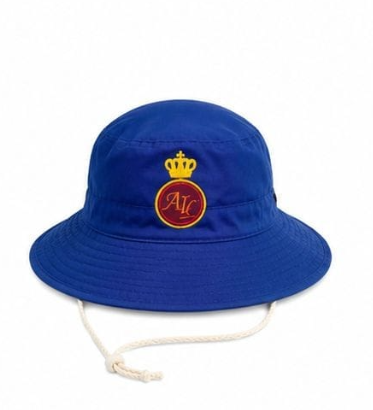
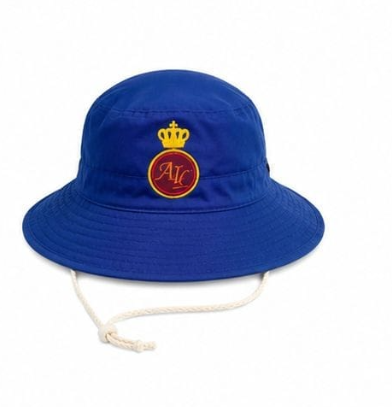
Update sun hat and gray skirt photos in the uniform catalog.
Replace sun hat images and add Grade 7-9 gray skirt photo with uncropped product images in both grade lists.

Changed region(s): [[0.059, 0.1474, 0.9142, 0.9435], [0.5308, 0.5897, 0.5898, 0.6192]]

diff --git a/src/lib/uniform-catalog.ts b/src/lib/uniform-catalog.ts
@@ -22,7 +22,7 @@ export type UniformPriceList = {
 }
 
 /** Bump when any public uniform item image changes so browsers fetch fresh files. */
-export const UNIFORM_IMAGES_VERSION = "28"
+export const UNIFORM_IMAGES_VERSION = "30"
 
 export function uniformItemSrc(path: string): string {
   const base = path.split("?")[0] ?? path
@@ -168,6 +168,13 @@ const GRAY_SKIRT_IMAGES: UniformItemImage[] = [
   },
 ]
 
+const GRAY_SKIRT_G79_IMAGES: UniformItemImage[] = [
+  {
+    src: uniformItemSrc("/images/uniform/items/gray-skirt-g79.png"),
+    alt: "Grey school skirt with maroon trim",
+  },
+]
+
 const PLEATED_SKIRT_IMAGES: UniformItemImage[] = [
   {
     src: uniformItemSrc("/images/uniform/items/pleated-skirt.png"),
@@ -217,7 +224,7 @@ export const UNIFORM_PRICE_LISTS: UniformPriceList[] = [
       { id: "gray-red-socks", name: "Gray and Red Socks", price: "R100.00", images: GRAY_RED_SOCKS_IMAGES },
       { id: "sun-hat", name: "Sun hat", price: "R200.00", images: SUN_HAT_IMAGES, showImages: true },
       { id: "winter-woollen-hat", name: "Winter woollen hat", price: "R200.00", images: WINTER_WOOLLEN_HAT_IMAGES, showImages: true },
-      { id: "gray-skirt", name: "Gray Skirt", price: "R200.00", images: GRAY_SKIRT_IMAGES },
+      { id: "gray-skirt", name: "Gray Skirt", price: "R200.00", images: GRAY_SKIRT_IMAGES, showImages: true },
       { id: "sports-white-shorts", name: "Sports White Shorts", price: "R200.00", images: SPORTS_WHITE_SHORTS_IMAGES, showImages: true },
     ],
   },
@@ -239,7 +246,7 @@ export const UNIFORM_PRICE_LISTS: UniformPriceList[] = [
       { id: "g79-maroon-socks", name: "Maroon Socks", price: "R100.00", images: MAROON_SOCKS_IMAGES, showImages: true },
       { id: "g79-sun-hat", name: "Sun hat", price: "R200.00", images: SUN_HAT_G79_IMAGES, showImages: true },
       { id: "g79-winter-woollen-hat", name: "Winter woollen hat", price: "R200.00", images: WINTER_WOOLLEN_HAT_IMAGES, showImages: true },
-      { id: "g79-gray-skirt", name: "Gray Skirt", price: "R200.00", images: GRAY_SKIRT_IMAGES },
+      { id: "g79-gray-skirt", name: "Gray Skirt", price: "R200.00", images: GRAY_SKIRT_G79_IMAGES, showImages: true },
       { id: "g79-pleated-skirt", name: "Pleated Skirt", price: "R340.00", images: PLEATED_SKIRT_IMAGES, showImages: true },
       { id: "g79-sports-white-shorts", name: "Sports White Shorts", price: "R200.00", images: SPORTS_WHITE_SHORTS_G79_IMAGES, showImages: true },
     ],
